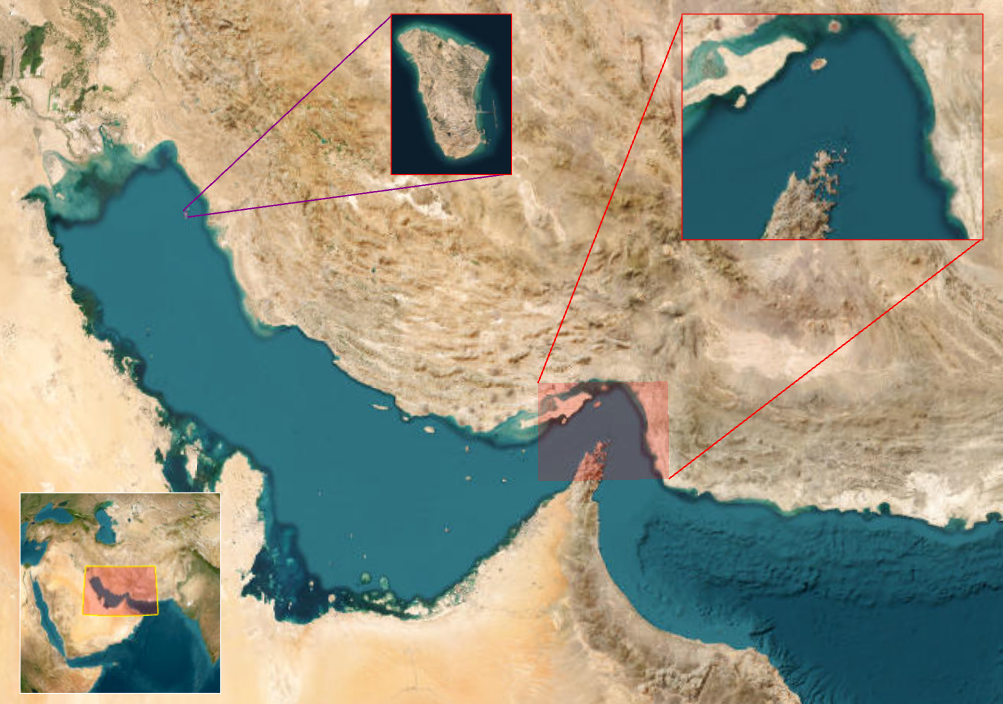
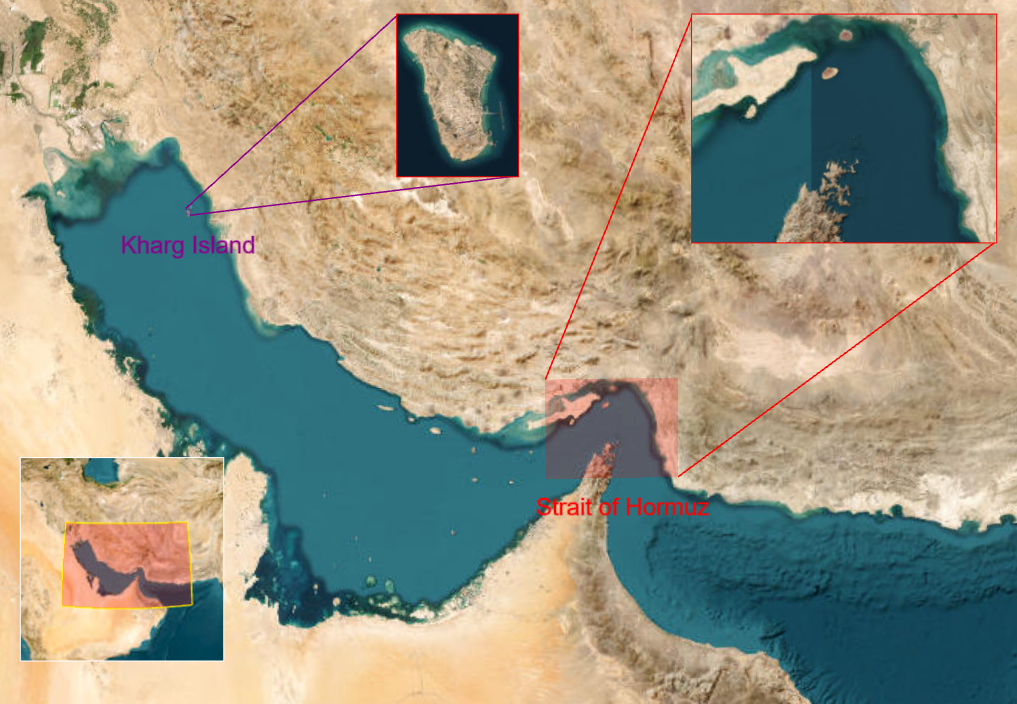
map labels

diff --git a/src/sections/map/MapApp.tsx b/src/sections/map/MapApp.tsx
@@ -1,5 +1,7 @@
 import { DndContext, TouchSensor, PointerSensor, useSensor, useSensors } from "@dnd-kit/core";
 import { restrictToParentElement } from "@dnd-kit/modifiers";
+import { Entity, LabelGraphics } from "resium";
+import { Cartesian2, Cartesian3, Color, VerticalOrigin, HeightReference } from "cesium";
 import MainMap from "./MainMap";
 import LayerSwitcher from "./LayerSwitcher";
 import OverviewMapSwitch from "./OverviewMapSwitch";
@@ -18,8 +20,6 @@ import { CameraContext } from "./types";
 // TODO: resize widgets
 // TODO: compass
 // TODO: mobile dnd
-// TODO: snapshots
-// TODO: 2nd pip
 // TODO: right click context menu
 
 const MapApp = () => {
@@ -66,19 +66,45 @@ const MapApp = () => {
             <PipViewRectangle show={showPipMap2} isPip2={true} />
             <Layers layer={layer} />
             <CameraControls takeScreenshot={takeScreenshot} />
+            <Entity position={Cartesian3.fromDegrees(56.6, 25.7)}>
+              <LabelGraphics
+                text="Strait of Hormuz"
+                font="24px sans-serif"
+                fillColor={Color.RED}
+                outlineColor={Color.WHITE}
+                outlineWidth={4}
+                verticalOrigin={VerticalOrigin.BOTTOM}
+                heightReference={HeightReference.CLAMP_TO_GROUND}
+                pixelOffset={new Cartesian2(0, 20)}
+                disableDepthTestDistance={Number.POSITIVE_INFINITY}
+              />
+            </Entity>
+            <Entity position={Cartesian3.fromDegrees(50.35, 28.9)}>
+              <LabelGraphics
+                text="Kharg Island"
+                font="24px sans-serif"
+                fillColor={Color.DARKMAGENTA}
+                outlineColor={Color.WHITE}
+                outlineWidth={1}
+                verticalOrigin={VerticalOrigin.BOTTOM}
+                heightReference={HeightReference.CLAMP_TO_GROUND}
+                pixelOffset={new Cartesian2(0, 20)}
+                disableDepthTestDistance={Number.POSITIVE_INFINITY}
+              />
+            </Entity>
           </MainMap>
           {showOverviewMap && (
-            <OverviewMap overviewState={widgetState?.overview}>
+            <OverviewMap overviewState={widgetState.overview}>
               <Layers layer={layer} />
             </OverviewMap>
           )}
           {showPipMap && (
-            <PipMap pipState={widgetState?.pip} isPip2={false}>
+            <PipMap pipState={widgetState.pip} isPip2={false}>
               <Layers layer={layer} />
             </PipMap>
           )}
           {showPipMap2 && (
-            <PipMap pipState={widgetState?.pip2} isPip2={true}>
+            <PipMap pipState={widgetState.pip2} isPip2={true}>
               <Layers layer={layer} />
             </PipMap>
           )}

diff --git a/src/sections/map/OverviewMap.tsx b/src/sections/map/OverviewMap.tsx
@@ -39,7 +39,8 @@ const OverviewInitializer = () => {
   return null;
 };
 
-const OverviewMap = ({ children, overviewState }: { children?: ReactNode | ReactNode[]; overviewState: IWidget }) => {
+const OverviewMap = ({ children, overviewState }: { children?: ReactNode | ReactNode[]; overviewState?: IWidget }) => {
+  if (!overviewState) return null;
   const { attributes, listeners, setNodeRef, transform } = useDraggable({
     id: "overview",
   });

diff --git a/src/sections/map/PipMap.tsx b/src/sections/map/PipMap.tsx
@@ -88,9 +88,10 @@ const PipMap = ({
   isPip2,
 }: {
   children?: ReactNode | ReactNode[];
-  pipState: IWidget;
+  pipState?: IWidget;
   isPip2: boolean;
 }) => {
+  if (!pipState) return;
   const pipId = isPip2 ? "pip-2" : "pip";
   const { attributes, listeners, setNodeRef, transform } = useDraggable({
     id: pipId,
